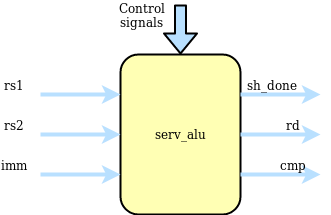
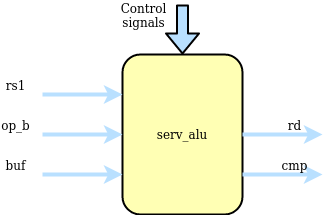
Move shifter to mem_if
This allows reusing the data bus registers for shift amount

diff --git a/doc/index.rst b/doc/index.rst
@@ -38,11 +38,9 @@ serv_alu
 
 .. image:: serv_alu.png
 
-serv_alu handles alu and shift operations. The first input operand (A) comes from i_rs1 and the second operand (B) comes from i_rs2 or i_imm depending on the type of operation. The data passes through the add/sub or bool logic unit and finally ends up in o_rd to be written to the destination register. The output o_cmp is used for conditional branches to decide whether or not to take the branch.
+serv_alu handles alu operations. The first input operand (A) comes from i_rs1 and the second operand (B) comes from i_rs2 or i_imm depending on the type of operation. The data passes through the add/sub or bool logic unit and finally ends up in o_rd to be written to the destination register. The output o_cmp is used for conditional branches to decide whether or not to take the branch.
 
 The add/sub unit can do additions A+B or subtractions A-B by converting it to A+B̅+1. Subtraction mode (i_sub = 1) is also used for the comparisions in the slt* and conditional branch instructions. The +1 used in subtraction mode is done by preloading the carry input with 1. Less-than comparisons are handled by converting the expression A<B to A-B<0 and checking the MSB, which will be set when the result is less than 0. This however requires sign-extending the operands to 33-bit inputs. For signed operands (when i_cmp_sig is set), the extra bit is the same as the MSB. For unsigned, the extra bit is always 0. Because the ALU is only active for 32 cycles, the 33rd bit must be calculated in parallel to the ordinary addition. The result from this operations is available in result_lt. For equality checks, result_eq checks that all bits are 0 from the subtraction.
-
-For shift operations, the data to be shifted resides in bufreg. The shift control unit in the ALU keeps track of how many steps to shift the bufreg.
 
 .. image:: serv_alu_int.png
 
@@ -110,6 +108,8 @@ The memory interface is centered around four byte-wide shift registers connected
 During load operations, the data from the bus is latched into the shift registers. `dat_en` is again asserted to shift out data from the registers. `i_lsb` decides from which byte stage of the shift register to tap the data, depending on the alignment of the received data. The `dat_valid` signal makes sure to only present valid data to `o_rd` and otherwise fill in with zeros or sign extension.
 
 When SERV is built with `WITH_CSR`, there is also logic to detect misaligned accesses which asserts the o_misalign flag to the core.
+
+The shift register used for stores and loads are also used to keep track of the number of steps to shift for left/right shift operations. In this mode, the six LSB of the register is loaded with the shift amount during the init stage and the used as a down counter which raises o_sh_done and o_sh_done_r when the number of shift steps have been completed.
 
 .. image:: serv_mem_if_int.png
 
